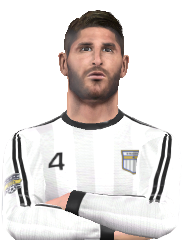
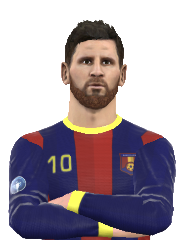
Change preview player to Messi

diff --git a/DLS19/index.html b/DLS19/index.html
@@ -37,8 +37,8 @@
     </div>
     <div id="settings">
         <p>Name
-            <input id="firstName" type="text" value="Sergio">
-            <input id="lastName" type="text" value="Ramos">
+            <input id="firstName" type="text" value="Lionel">
+            <input id="lastName" type="text" value="Messi">
         </p>
         <p>
             Nationality <a href="https://github.com/theshinramen/DLS-Files/blob/main/flags/README.md"
@@ -46,10 +46,10 @@
             <select id="nationality"></select>
             Foot
             <select id="foot">
-                <option selected value="R">
+                <option value="R">
                     Right
                 </option>
-                <option value="L">
+                <option selected value="L">
                     Left
                 </option>
                 <option value="B">
@@ -57,7 +57,7 @@
                 </option>
             </select>
             Height
-            <input id="height" max="999" min="1" type="number" value="183">
+            <input id="height" max="999" min="1" type="number" value="171">
         </p>
         <p>
             Position
@@ -65,7 +65,7 @@
                 <option value="CF">
                     CF
                 </option>
-                <option value="WF">
+                <option selected value="WF">
                     WF
                 </option>
                 <option value="LM">
@@ -86,7 +86,7 @@
                 <option value="LB">
                     LB
                 </option>
-                <option selected value="CB">
+                <option value="CB">
                     CB
                 </option>
                 <option value="RB">
@@ -97,20 +97,20 @@
                 </option>
             </select>
             Overall Rating
-            <input id="rating" max="100" min="1" type="number" value="85">
+            <input id="rating" max="100" min="1" type="number" value="92">
         </p>
         <p>
             Stats
-            <input id="stats1" max="100" min="1" type="number" value="79">
-            <input id="stats2" max="100" min="1" type="number" value="80">
-            <input id="stats3" max="100" min="1" type="number" value="80">
-            <input id="stats4" max="100" min="1" type="number" value="71">
-            <input id="stats5" max="100" min="1" type="number" value="79"> <br>
-            <input id="stats6" max="100" min="1" type="number" value="86">
-            <input id="stats7" max="100" min="1" type="number" value="75">
-            <input id="stats8" max="100" min="1" type="number" value="71">
-            <input id="stats9" max="100" min="1" type="number" value="59">
-            <input id="stats10" max="100" min="1" type="number" value="85">
+            <input id="stats1" max="100" min="1" type="number" value="89">
+            <input id="stats2" max="100" min="1" type="number" value="92">
+            <input id="stats3" max="100" min="1" type="number" value="79">
+            <input id="stats4" max="100" min="1" type="number" value="95">
+            <input id="stats5" max="100" min="1" type="number" value="61"> <br>
+            <input id="stats6" max="100" min="1" type="number" value="45">
+            <input id="stats7" max="100" min="1" type="number" value="91">
+            <input id="stats8" max="100" min="1" type="number" value="85">
+            <input id="stats9" max="100" min="1" type="number" value="95">
+            <input id="stats10" max="100" min="1" type="number" value="72">
         </p>
         <p>Image
             <input accept="image/gif, image/jpeg, image/png" type="file" id="uploadImage" />

diff --git a/DLS19/script.js b/DLS19/script.js
@@ -14,7 +14,7 @@ for (var i = 0; i <= 182; i++) {
     opt.innerHTML = i;
     document.getElementById('nationality').appendChild(opt);
 }
-document.getElementById('nationality').value = '0';
+document.getElementById('nationality').value = '138';
 
 function value(el) {
     return document.getElementById(el).value;
